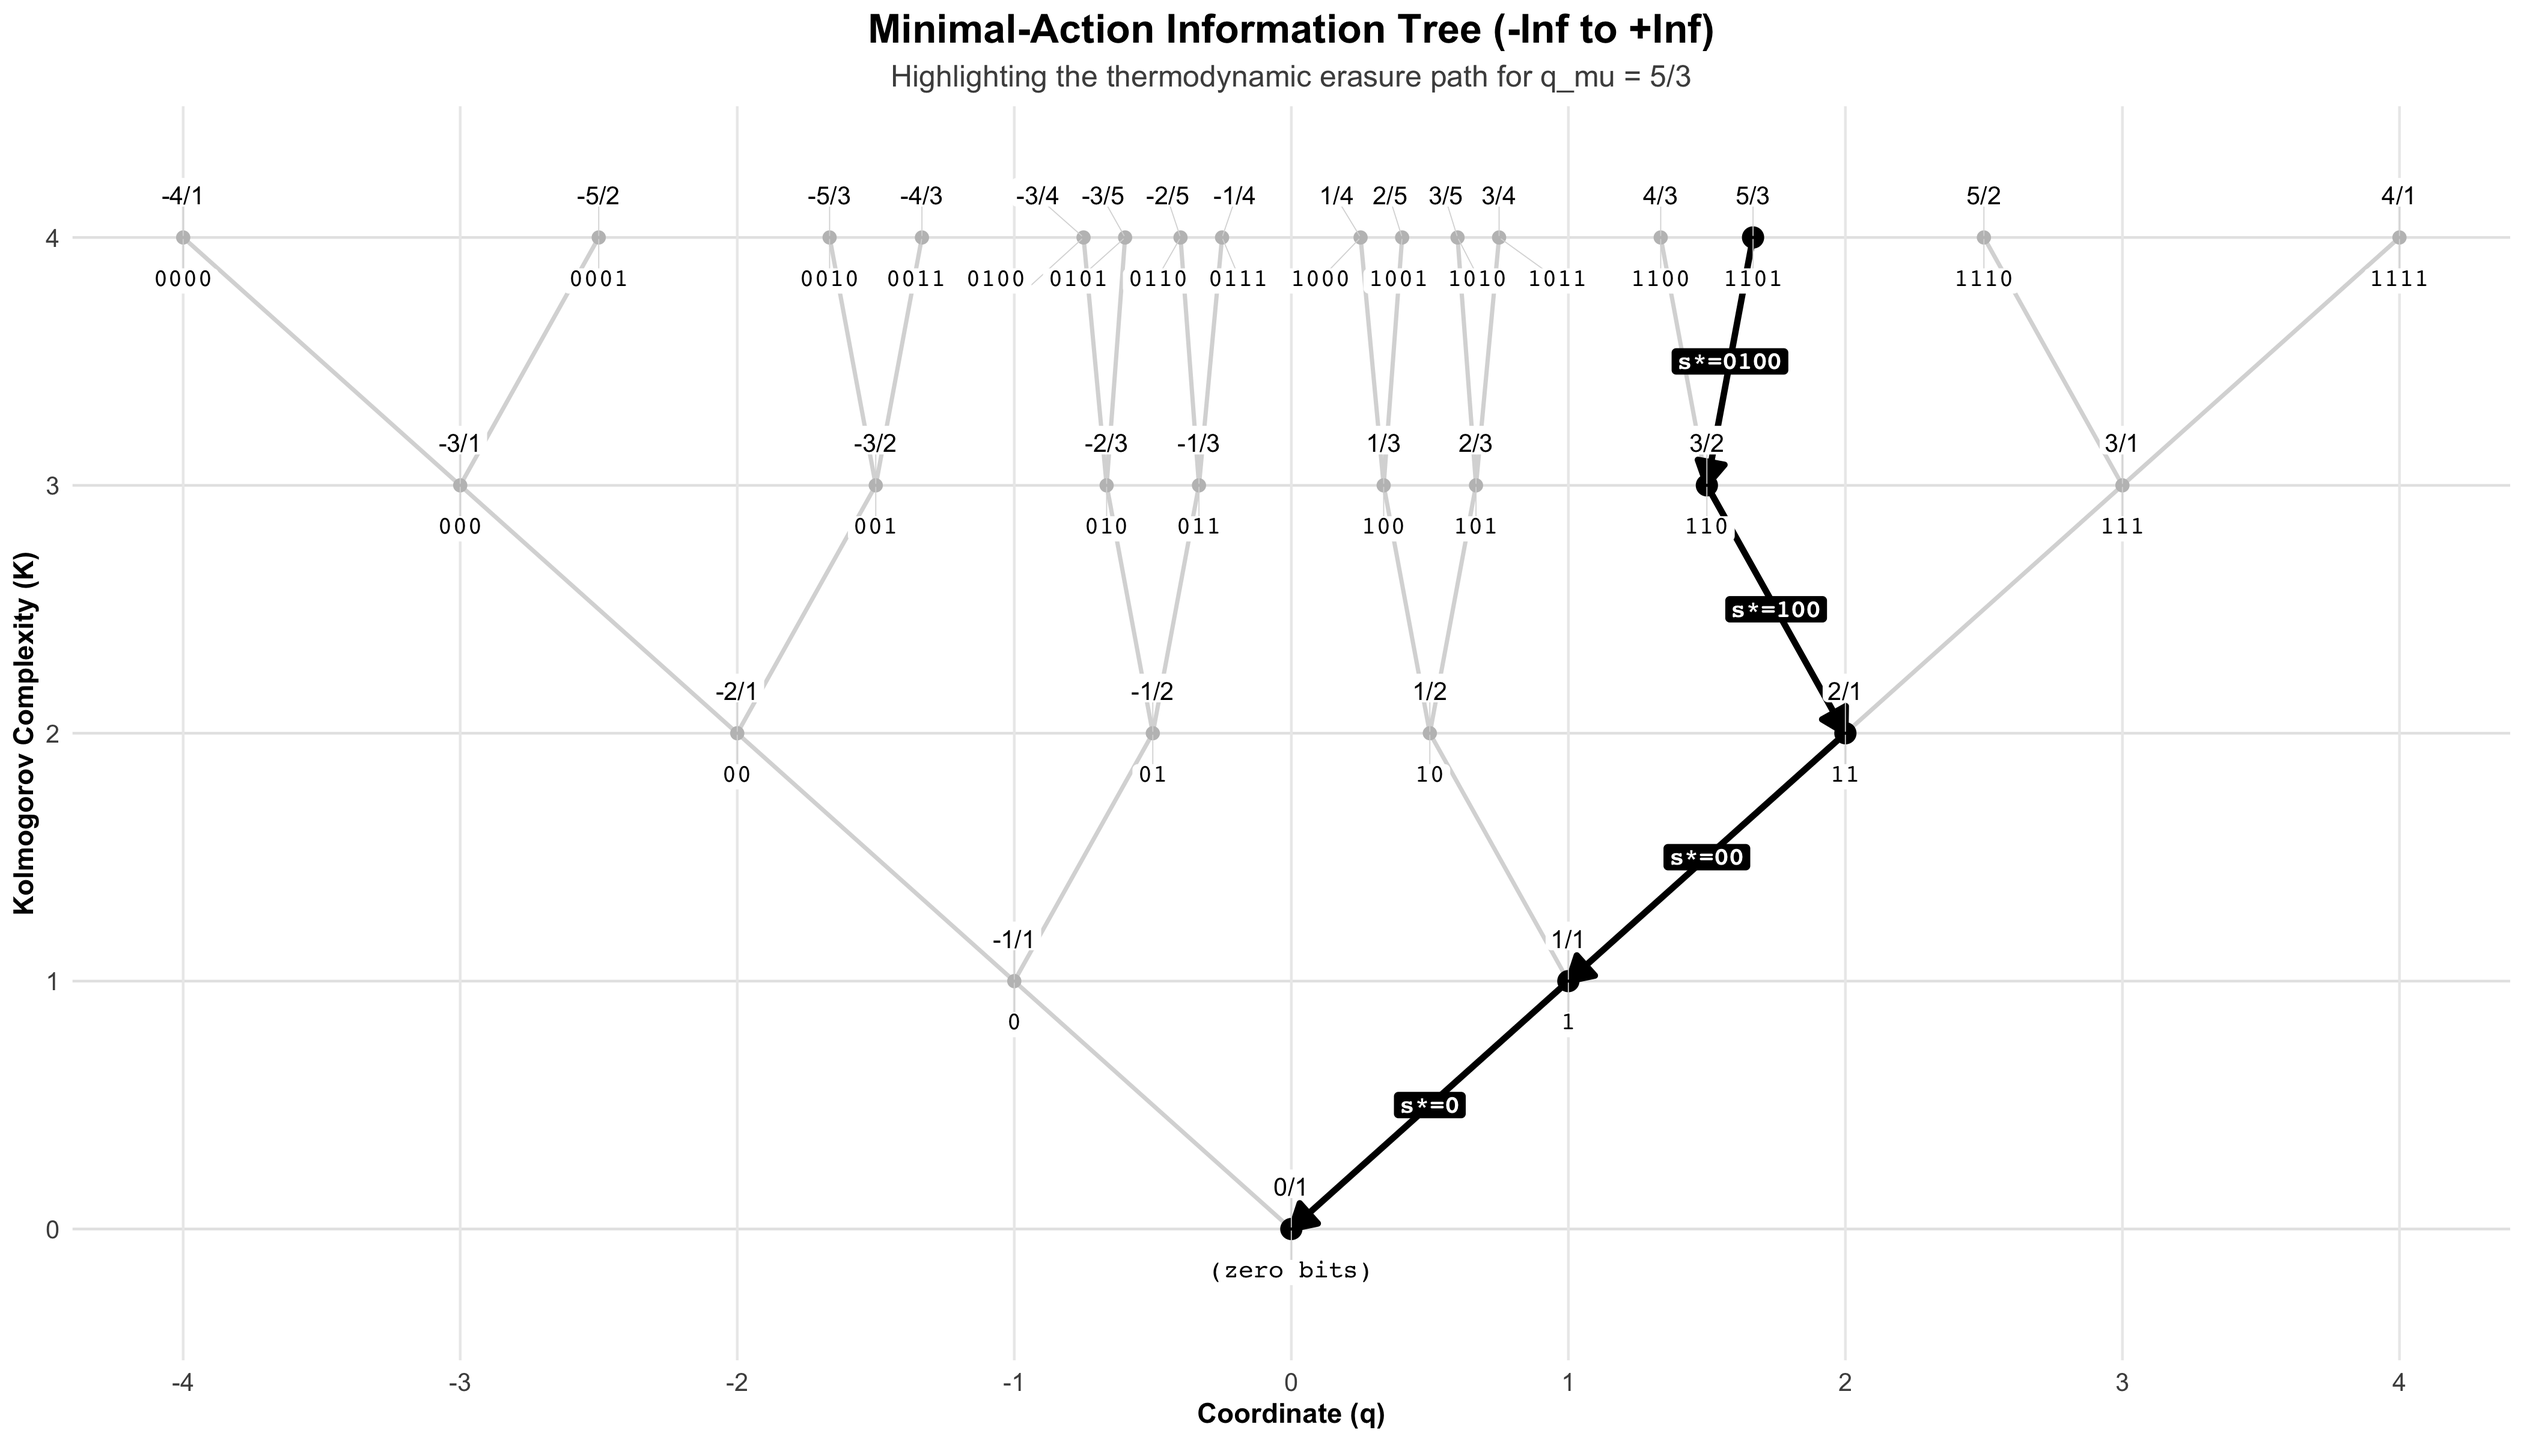
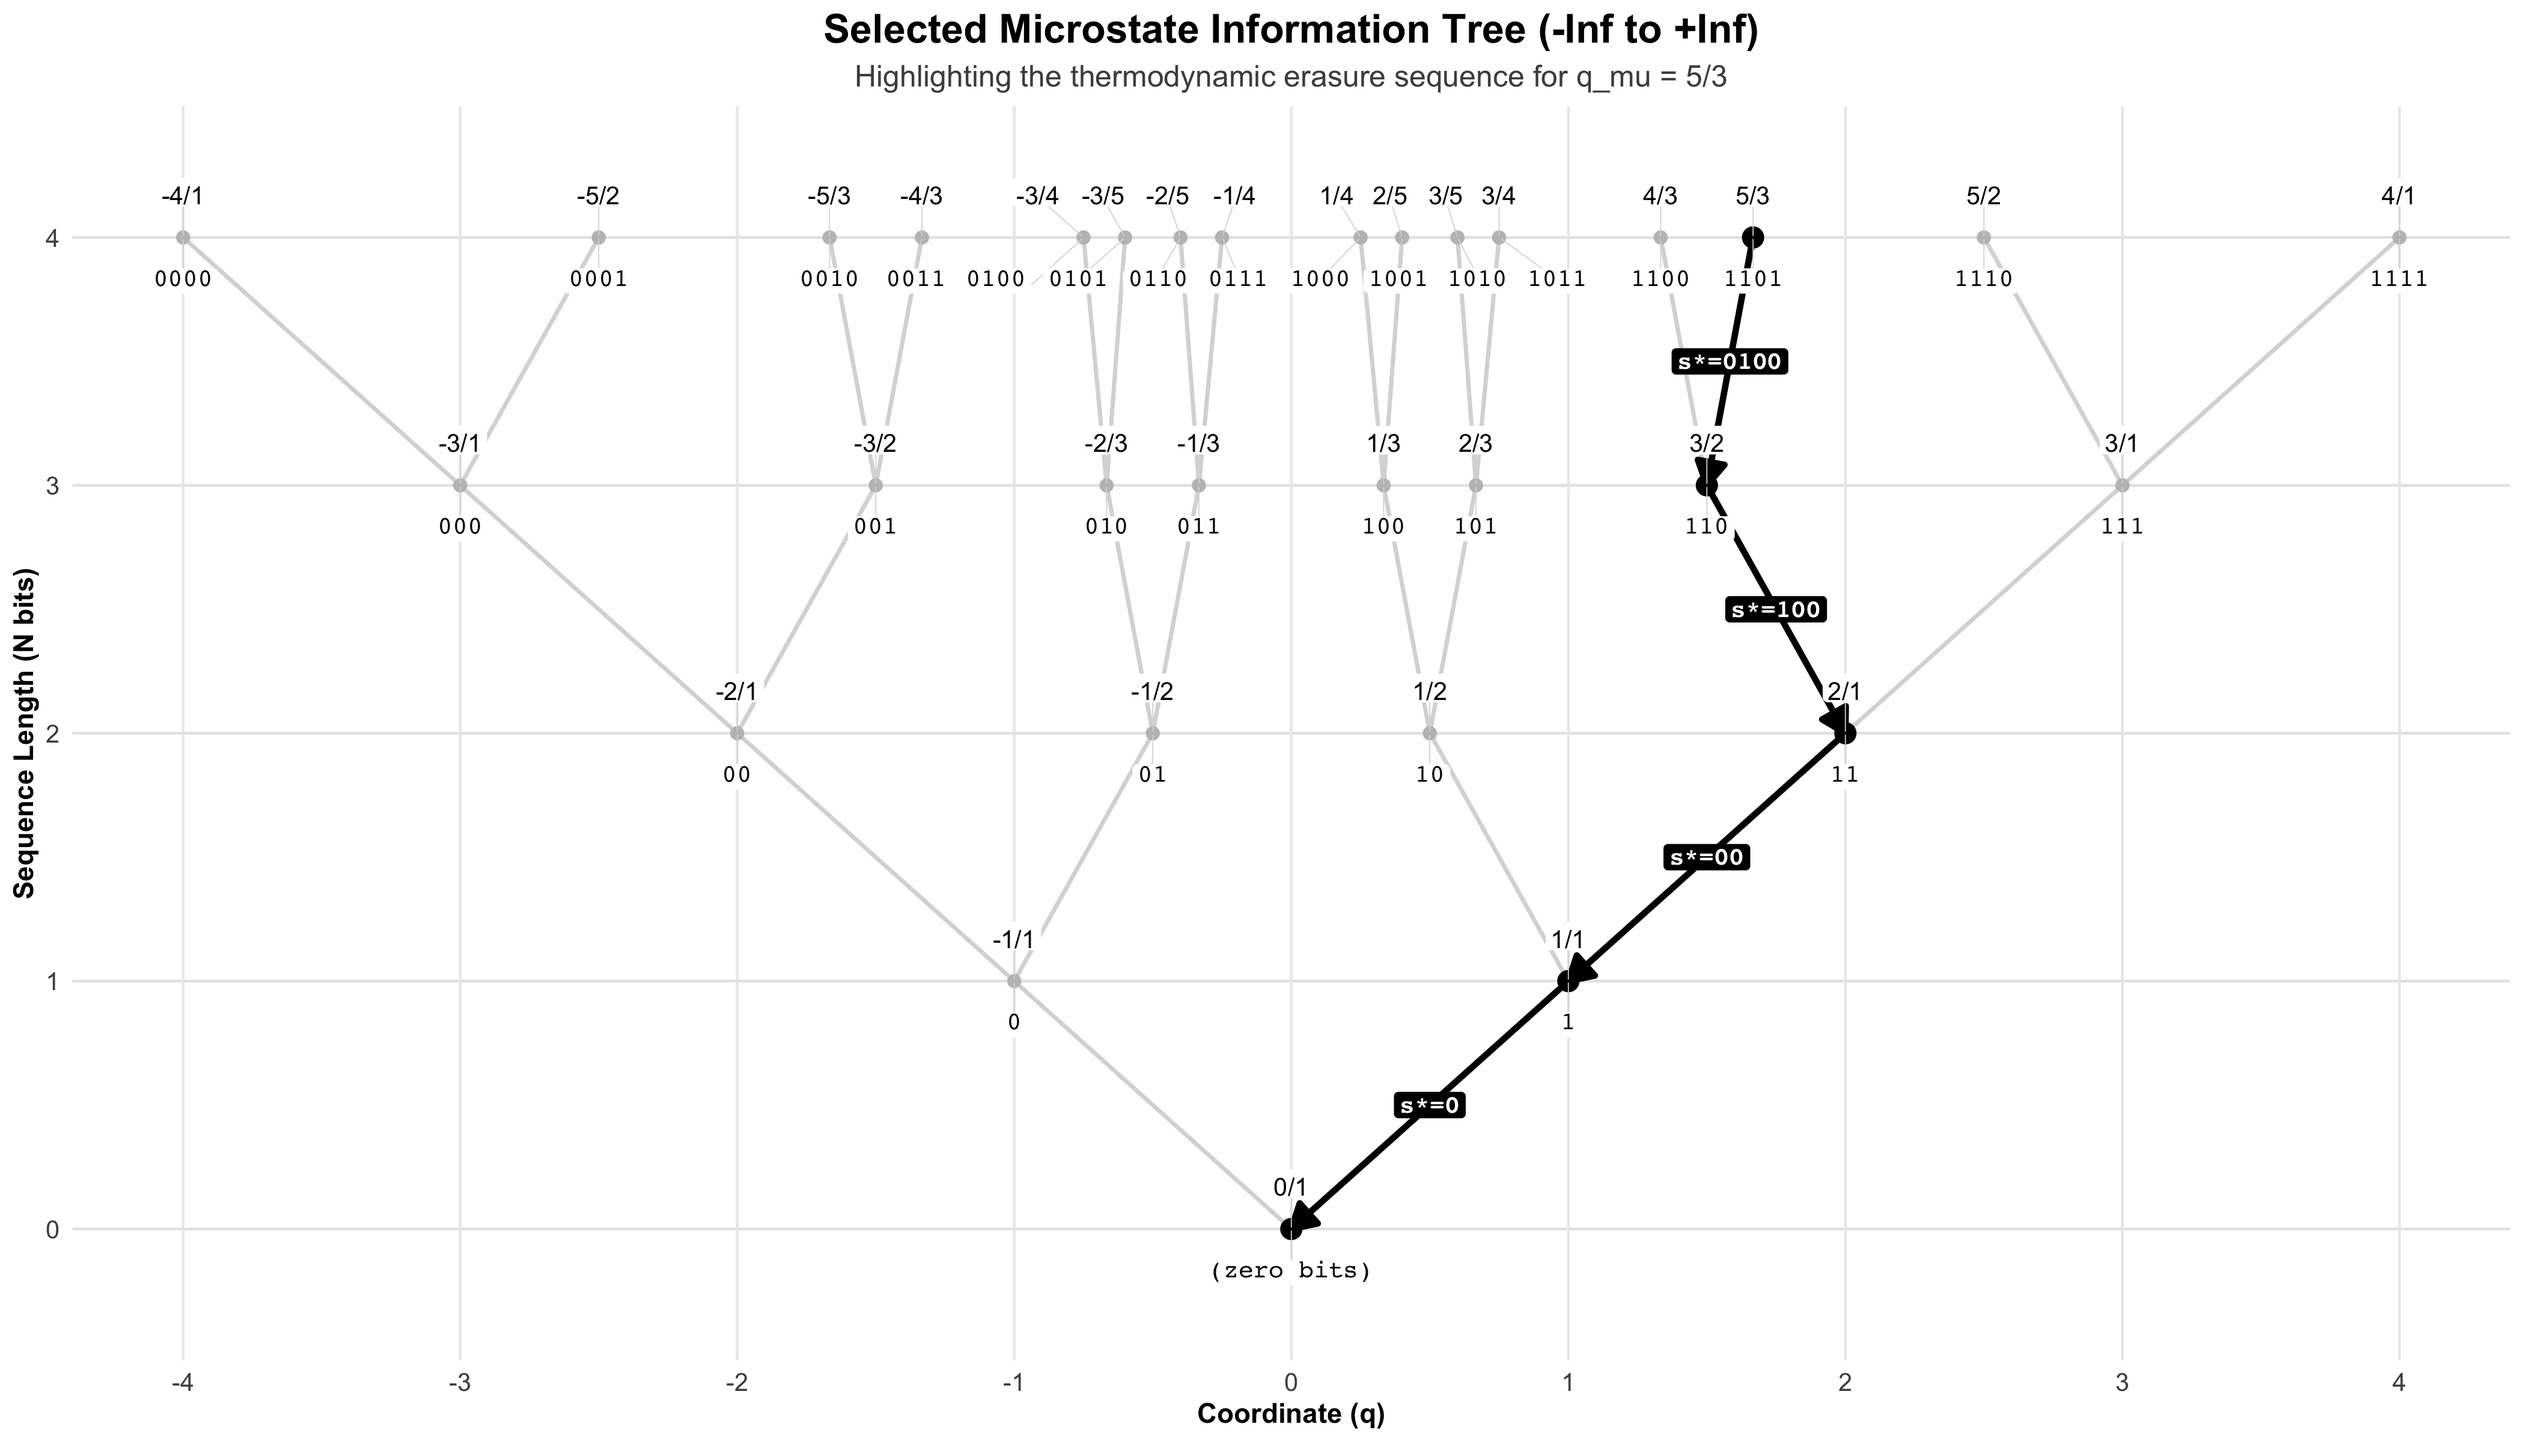
updated pipline results with refactored code and using action A instead of momentum P

Changed region(s): [[0.3119, 0.0, 0.7174, 0.0625], [0.0, 0.375, 0.0312, 0.5312], [0.0, 0.5625, 0.0312, 0.625]]

diff --git a/README.md b/README.md
@@ -1,11 +1,11 @@
 Harmonic Oscillator Erasure Density
 ================
 
-![](README_files/figure-gfm/plot-2A-overview-scatter-erasure-distance-1.png)<!-- -->
+![](README_files/figure-gfm/plot-2A-overview-scatter-erasure-displacement-1.png)<!-- -->
 
 ------------------------------------------------------------------------
 
-![](README_files/figure-gfm/plot-3-program-length-evolution-1.png)<!-- -->
+![](README_files/figure-gfm/plot-3-sequence-length-evolution-1.png)<!-- -->
 
 ------------------------------------------------------------------------
 
